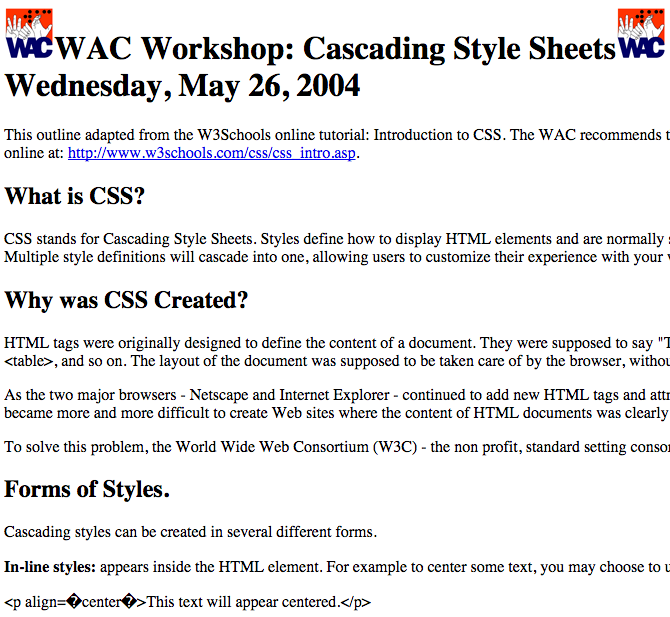
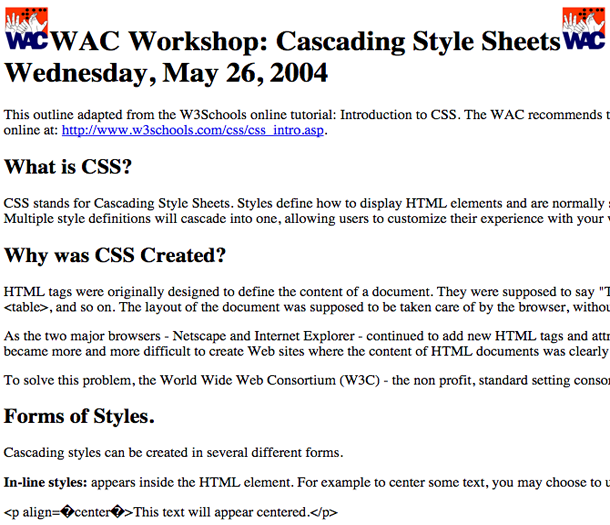
css content

diff --git a/lessons/lesson_plans/css-101/sections/native-styles.html b/lessons/lesson_plans/css-101/sections/native-styles.html
@@ -5,7 +5,7 @@
     <p>Have you ever opened an HTML file that wasn't controlled by a style sheet? Chances are, if you have, that it
         looked something like this.</p>
 
-    <img src="/assets/img/lessons/css-101/without_css.png" alt="native styles"/>
+    <img src="/assets/img/lessons/css-101/without_css.png" style="width:610px;height:525px;" alt="native styles" />
 
     <p>It sometimes referred to as 'unstyled content'. While it certainly looks unstyled, but that's not entirely
         accurate. Before developers were allowed to control HTML pages through Cascading Style Sheets, browsers had some
